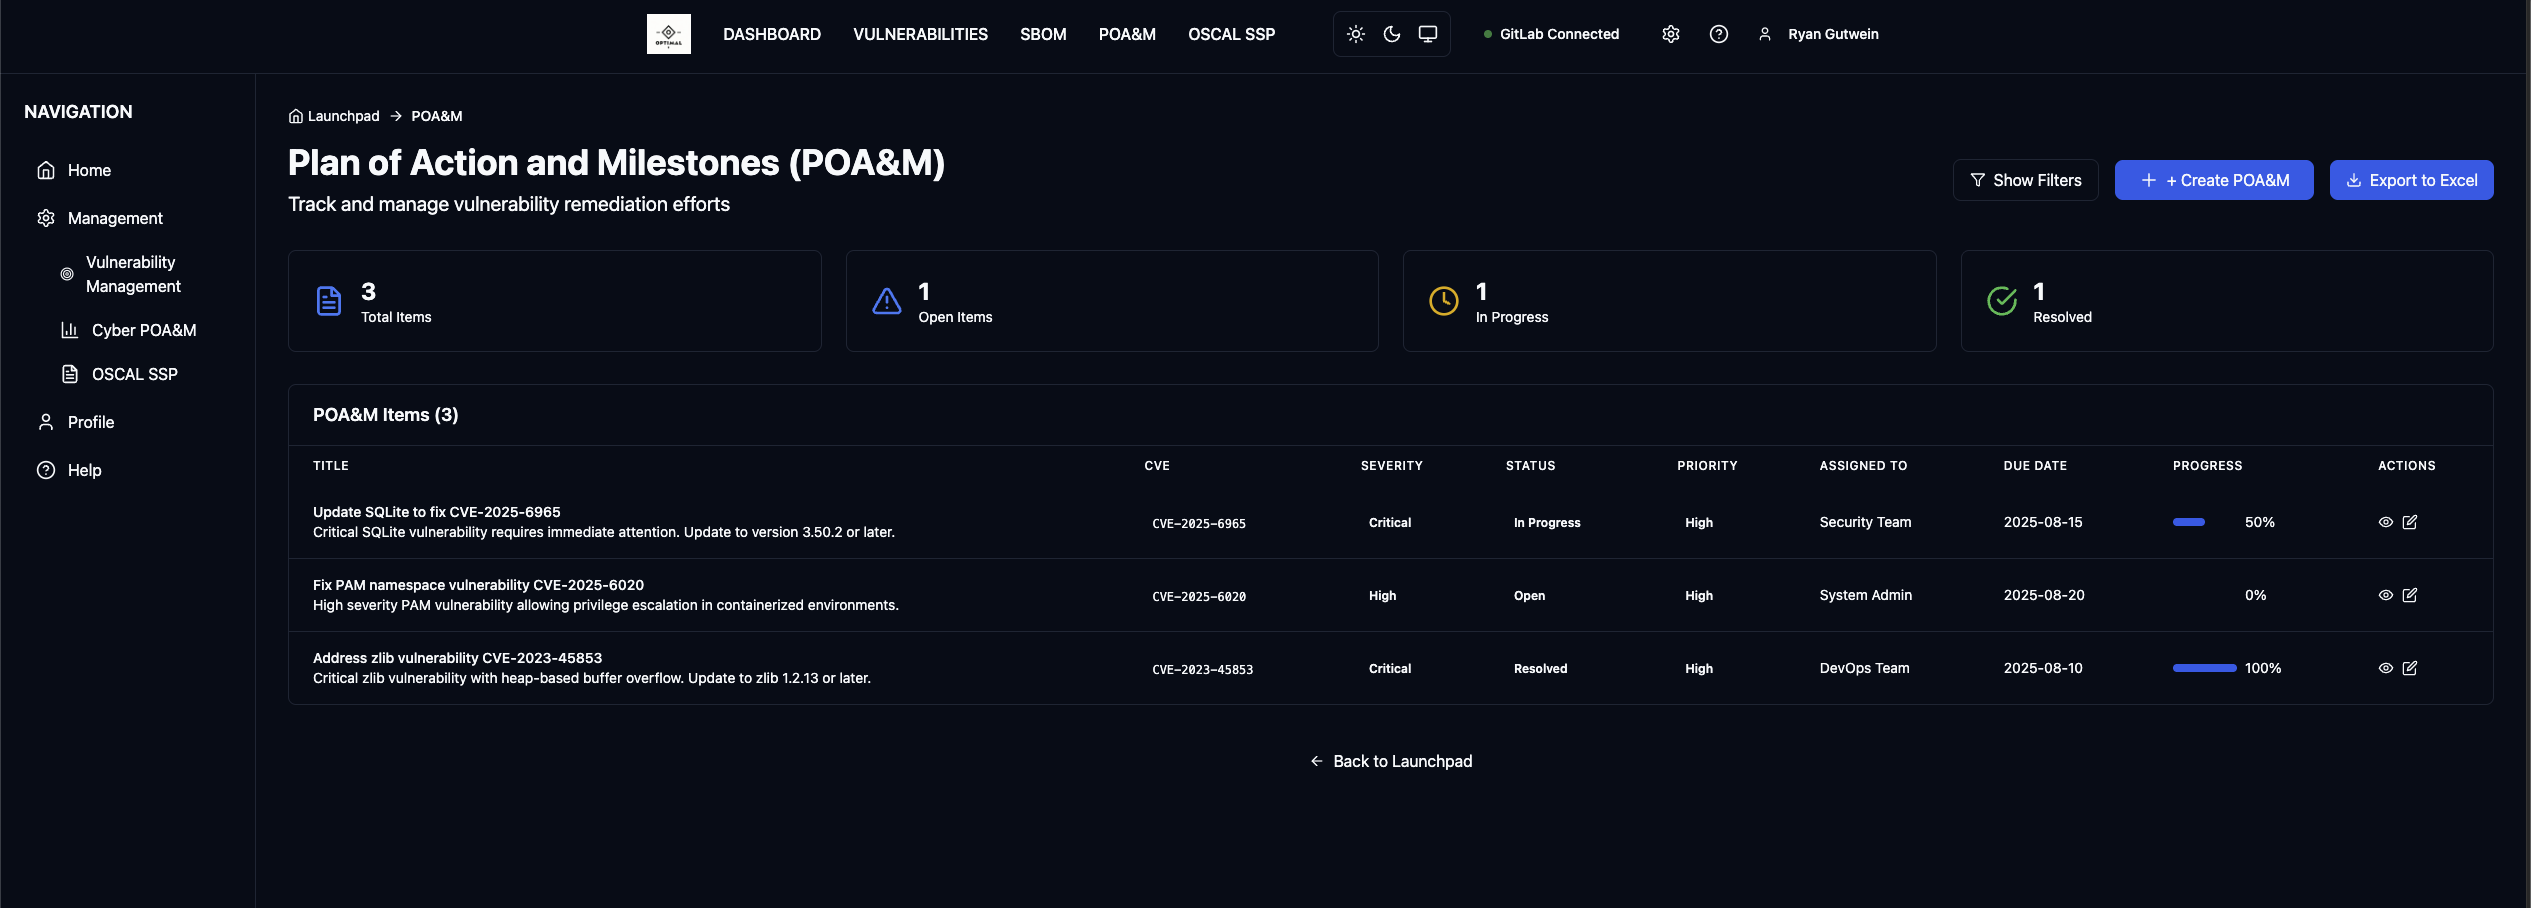
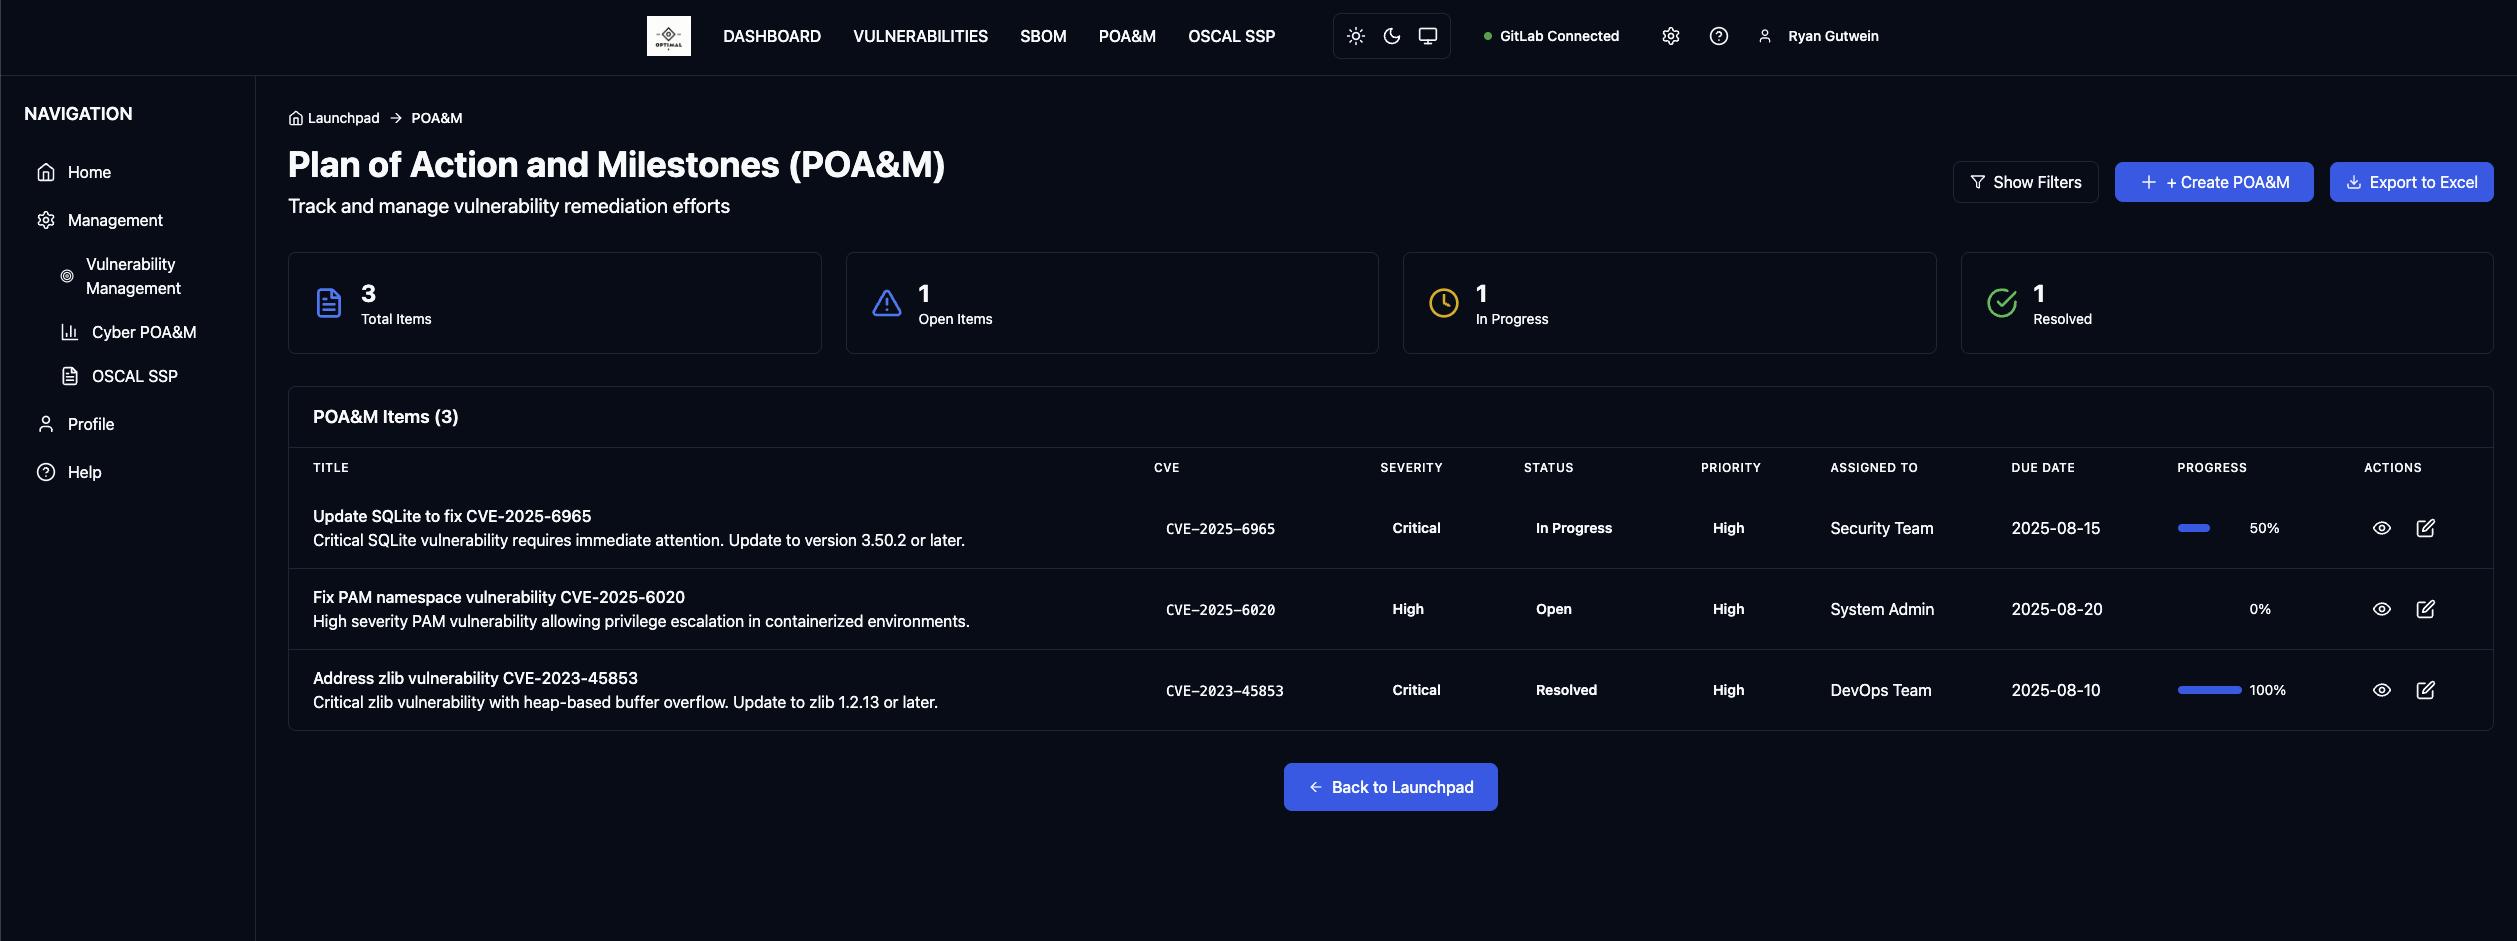
Update dashboard images and remove Enterprise Noah references - use improved POA&M, SBOM, and vulnerability management screenshots

diff --git a/grc.html b/grc.html
@@ -62,7 +62,7 @@
                     See our GRC platform in action with comprehensive POA&M tracking, vulnerability remediation, and compliance management.
                 </p>
                 <div class="bg-gray-900 rounded-2xl p-4 shadow-2xl">
-                    <img src="public/poam.png" alt="POA&M Dashboard" class="w-full rounded-xl shadow-lg">
+                    <img src="public/poam.png" alt="POA&M Dashboard" class="w-full rounded-lg shadow-lg">
                     <div class="mt-4 text-center">
                         <p class="text-gray-400 text-sm">Live dashboard showing 3 total POA&M items with 1 open, 1 in progress, and 1 resolved</p>
                     </div>

diff --git a/govlaunch.html b/govlaunch.html
@@ -64,7 +64,7 @@
                 <div class="bg-gray-900 rounded-2xl p-4 shadow-2xl">
                     <img src="public/oscal.png" alt="System Security Plan Dashboard" class="w-full rounded-xl shadow-lg">
                     <div class="mt-4 text-center">
-                        <p class="text-gray-400 text-sm">Live dashboard showing Enterprise Noah system with 646 total controls and comprehensive security documentation</p>
+                        <p class="text-gray-400 text-sm">Live dashboard showing comprehensive system security plan with 646 total controls and detailed security documentation</p>
                     </div>
                 </div>
             </div>
